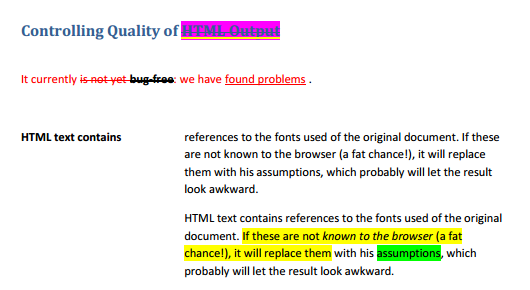
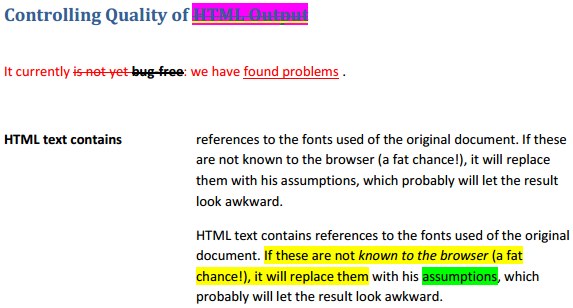
fixed issue: line break v.s. word wrap

diff --git a/src/processor/docx.py b/src/processor/docx.py
@@ -85,7 +85,7 @@ def make_page(doc, layout):
             ref_table = None
             # suppose all lines in a block are in same writing direction
             if block['lines'][0]['wmode'] == 0:
-                make_paragraph(doc, block, layout['margin'])
+                make_paragraph(doc, block, width, layout['margin'])
             else:
                 make_vertical_paragraph(doc, block)
         # make table
@@ -93,9 +93,17 @@ def make_page(doc, layout):
             ref_table = make_table(doc, ref_table, block, width, layout['margin'])            
 
 
-def make_paragraph(doc, block, page_margin):
+def make_paragraph(doc, block, width, page_margin):
     '''create paragraph for a text block.
-       join line sets with TAB and set position according to bbox
+       join line sets with TAB and set position according to bbox.
+
+       Generally, a pdf block is a docx paragraph, with block|line as line in paragraph.
+       But without the context, it's not able to recognize a block line as word wrap, or a 
+       separate line instead. A rough rule used here:
+        - block line will be treated as separate line (append `\n`) by default, except
+        - (1) this line and next line are actually in the same line (y-position)
+        - (2) if the rest space of this line can't accommodate even one span of next line, 
+              it's supposed to be normal word wrap.
     '''
     # new paragraph
     lines = block['lines']
@@ -108,15 +116,36 @@ def make_paragraph(doc, block, page_margin):
     pf.space_before = Pt(block.get('before_space', 0.0))
     pf.space_after = Pt(block.get('after_space', 0.0))
 
-    # add text / image: multi-line sets are seperated with TAB
-    for line in lines:
+    # add text / image
+    num = len(lines)
+    for i, line in enumerate(lines):
+        # left indent implemented with tab
         pos = line['bbox'][0]-page_margin[0]
         if pos:
             pf.tab_stops.add_tab_stop(Pt(pos))
             p.add_run('\t')
 
+        # new line by default
+        line_break = True
+
+        # no more lines after last line
+        if i==num-1: 
+            line_break = False
+        
+        # same line in space
+        elif lines[i+1]['bbox'][1]<=line['bbox'][3]:
+            line_break = False
+        
+        else:
+            free_space = width-page_margin[1]-line['bbox'][2]
+            x0, _, x1, _ = lines[i+1]['spans'][0]['bbox']
+            # word wrap if rest space of this line can't accommodate
+            # even one span of next line
+            if x1-x0 >= free_space:
+                line_break = False
+
         # line sets
-        add_line(p, line)
+        add_line(p, line, line_break)
 
     return p
     
@@ -185,7 +214,7 @@ def reset_paragraph_format(p):
     pf.widow_control = True
     return pf
 
-def add_line(paragraph, line):
+def add_line(paragraph, line, break_line=True):
     '''add text/image to a paragraph.       
     '''
     if line['wmode']==2:
@@ -225,6 +254,10 @@ def add_line(paragraph, line):
                     docx_span.font.underline = True
                 elif t==2:
                     docx_span.font.strike = True
+
+        # break line or word wrap?
+        if break_line:
+            paragraph.add_run('\n')
 
 
 def indent_table(table, indent):
